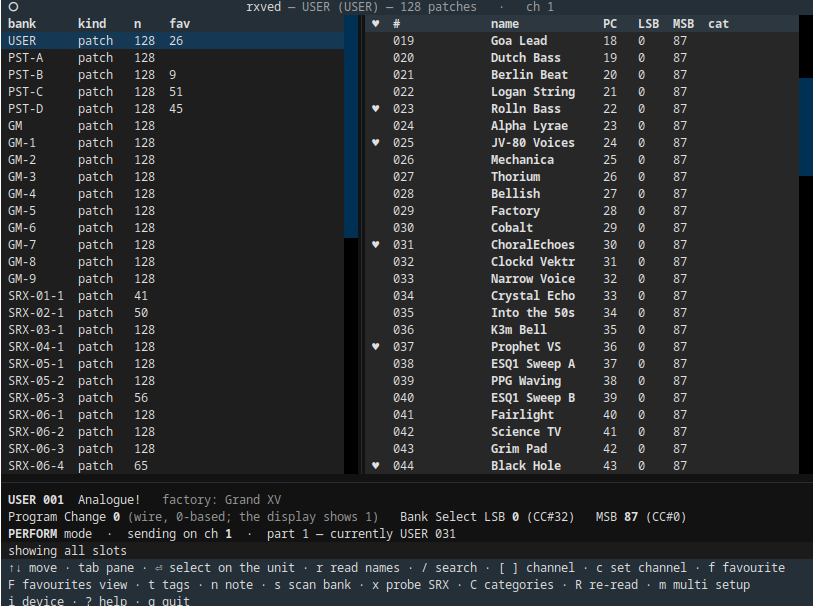
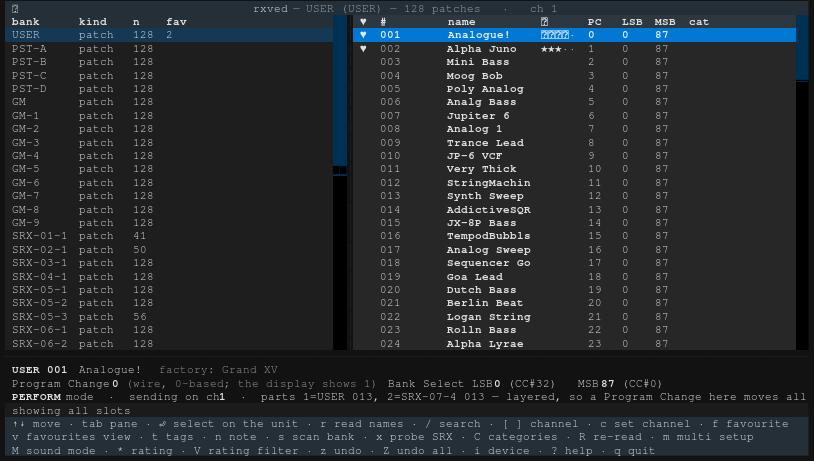
screenshots: refresh 3 original README illustrations
- general.png: refreshed 'What it does' main browser view
- favourites.png: refreshed favourites bullet with rating/filter updates
- multimode.png: refreshed multi-mode screen with silent-channel report
- README.md: repositioned 12 new screenshots alongside original 3,
  added CLAUDE.md exception note for real Roland names

Changed region(s): [[0.0, 0.0, 1.0, 1.0], [0.9828, 0.7592, 1.0, 0.7896]]

diff --git a/README.md b/README.md
@@ -111,9 +111,11 @@ Full account in [DISCLAIMER.md](DISCLAIMER.md).
 
 ---
 
+---
+
 ## ⚠ Use at your own risk — back up first
 
-rxved is provided **as is, with absolutely no warranty and no liability**
+ is provided **as is, with absolutely no warranty and no liability**
 for data loss or **hardware damage**. You assume all risk. Full terms:
 [DISCLAIMER.md](DISCLAIMER.md).
 
@@ -192,6 +194,8 @@ rxved is a terminal browser for the Roland XV-2020 that displays the three numbe
 
   ![Favourites filter](docs/screenshots/favourites.png)
 
+  ![Category filter](docs/screenshots/categories.png)
+
   | | |
   |---|---|
   | Linux / BSD | `$XDG_DATA_HOME/rxved/favorites.db`, else `~/.local/share/rxved/favorites.db` |
@@ -218,6 +222,8 @@ rxved is a terminal browser for the Roland XV-2020 that displays the three numbe
   from the command line, `--rating-at-least 3` and `--rating-exactly 0`
   filter it ("0" being the ones you have not rated yet), and
   `--order rating` sorts by it.
+
+  ![Rating filter](docs/screenshots/rating-filter.png)
 
   A printed patch list you marked up at the keyboard becomes favourites too:
   see [Reading a marked-up printout into
@@ -285,7 +291,10 @@ rxved is a terminal browser for the Roland XV-2020 that displays the three numbe
   open next to a running sequencer.
 
   `p` loads a stored performance into the edit buffer — the same buffer `W`
+  ![Store screen](docs/screenshots/store.png)
   writes, so it is how you start from a factory performance instead of from
+  ![Performance picker](docs/screenshots/performance-picker.png)
+
   whatever happened to be loaded.
 
   The LSB/MSB/PC columns are the wire truth, but nobody knows which program
@@ -297,7 +306,10 @@ rxved is a terminal browser for the Roland XV-2020 that displays the three numbe
   and Program Change — in that order, because the bank select only latches on
   the Program Change — then reads the part back.
 
-  `c` opens the **Performance Common**: the settings that belong to the
+  
+  ![Patch picker](docs/screenshots/patch-picker.png)
+
+`c` opens the **Performance Common**: the settings that belong to the
   performance rather than to any one part. Three of them decide which effect
   a part borrows — **MFX Source**, **Chorus Source** and **Reverb Source**
   are `PERFORM` (use the performance's own effect) or the number of a part
@@ -306,7 +318,10 @@ rxved is a terminal browser for the Roland XV-2020 that displays the three numbe
   the one byte that silences fifteen parts at once, and the name is the
   performance's own. The five ranged rows take `⏎`, a digit or `+`/`-`
   exactly as the part table does, and `⏎` on one opens the list of parts;
-  the name has no range, so `⏎` is the way in. Writes go to the edit buffer
+  the name has no range, so `⏎` is the way in. 
+  ![Performance common](docs/screenshots/performance-common.png)
+
+Writes go to the edit buffer
   with everything else.
 
   `e` opens the **effects**: the MFX type, its dry/chorus/reverb sends, its
@@ -318,12 +333,16 @@ rxved is a terminal browser for the Roland XV-2020 that displays the three numbe
   parameters through the editor's own display tables (`0.05 Hz`, `200 Hz`,
   `BYPASS`, `ROOM1`), because the steps are not a formula: the chorus rate
   runs 0.05–5.00 Hz in 0.05 steps, then 5.10–7.00 in 0.10, then 7.50–10.00
-  in 0.50. The same `⏎` / digit / `+`/`-` gestures apply, except that a field
+  in 0.50. 
+  ![Effects editor](docs/screenshots/effects.png)
+
+The same `⏎` / digit / `+`/`-` gestures apply, except that a field
   whose values are words — the MFX type, the outputs, the filter, the reverb
   character, the control sources — opens a list to pick from with `⏎` rather
   than a number prompt.
 
   `M` sets the **sound mode** itself — PATCH, PERFORM, GM1, GM2 or GS, from a
+  ![Sound mode](docs/screenshots/sound-mode.png)
   list marking the current one. This is rxved's one write that is *not* to
   Temporary Performance: the mode is global machine state, which is what makes
   it worth having and what makes it worth confirming. Entering GM or GS
@@ -461,8 +480,10 @@ taking it, because two XV-2020s on one chain is worth refusing over.
 | `V` | filter by rating — exactly, or that many and up (stacks on the view and the categories) |
 | `z` / `Z` | undo / undo all — the favourites store, back to its first state |
 | `/` | search names |
-| `r` | read this bank's names from the synth (`USER`/`R-USER`/`P-USER`; read-only) |
-| `s` | scan this bank by selecting every slot (**plays the synth**, PATCH mode only) |
+
+  ![Search](docs/screenshots/search.png)
+
+### Command line
 | `x` | probe for a fitted SRX board (**plays the synth**) |
 | `v` | cycle: all slots → this bank's favourites → every favourite |
 | `C` | filter by category (multi-select), on top of whichever view is showing |
@@ -699,6 +720,9 @@ and the XV-2020 answers a wrongly addressed request with **silence** —
 indistinguishable from powered-off, wrong-port or busy. Every synthetic test
 passed, because they all shared the same wrong convention. It took one read
 against real hardware to find. `DISCLAIMER.md` has the full account.
+
+![Device identity report](docs/screenshots/device.png)
+![Help report](docs/screenshots/help.png)
 
 ## Development
 
